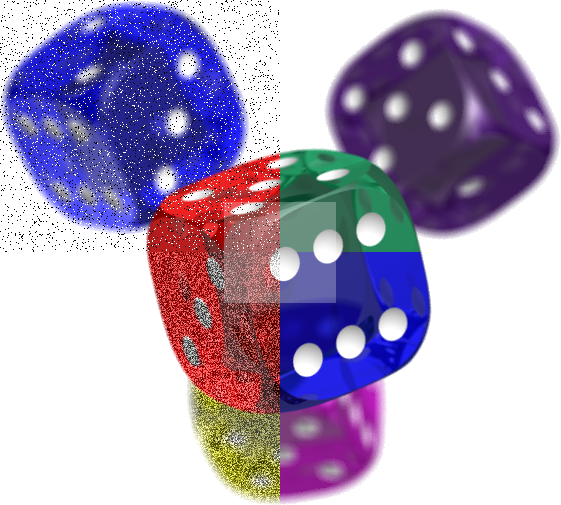
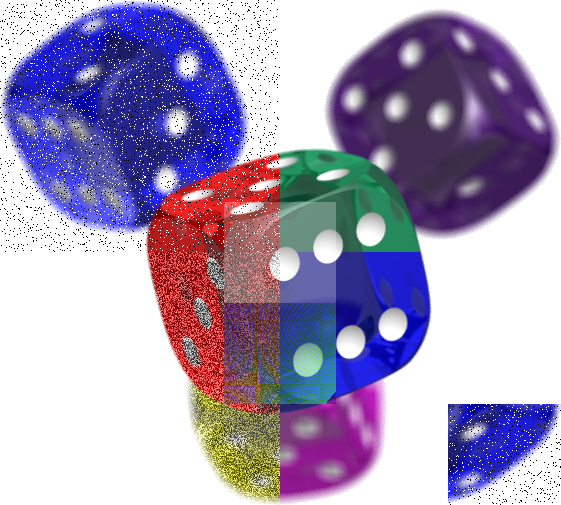
Added new method to PixelOps to apply custom function and added ability to change alphablending (not forced to false), modified pixelops_demo, added new filters_demo, minor phpdoc changes

diff --git a/HC/Helper/PixelOps.php b/HC/Helper/PixelOps.php
@@ -4,6 +4,7 @@ namespace HC\Helper;
 
 use HC\Canvas;
 use HC\Color;
+
 use InvalidArgumentException;
 
 /**
@@ -35,7 +36,7 @@ class PixelOps {
     
     /**
      * Apply predefined Canvas::pixelOperation (one time)
-     * Note: Sets imagealphablending to false
+     * Note: by default sets imagealphablending to false
      * 
      * @param Canvas $canvas
      * @param int  $beginX
@@ -44,41 +45,54 @@ class PixelOps {
      * @param int  $endY   canvas full height if null
      * @param int  $stepX
      * @param int  $stepY
-     * @param bool $cache
+     * @param bool $cache speed up color calculations but use more memory
+     * @param bool $alphaBlending
      * @return PixelOps
      */
     public static function on(Canvas $canvas, 
             $beginX = 0, $beginY = 0, $endX = null, $endY = null, $stepX = 1, $stepY = 1, 
-            $cache = false) {
+            $cache = false, $alphaBlending = false) {
         $forOpts = compact('beginX', 'beginY', 'endX', 'endY', 'stepX', 'stepY');
-        $canvas->alphaBlending(false);
+        $canvas->alphaBlending($alphaBlending);
         return new self($canvas, $forOpts, $cache);
     }
-
-    public function __call($name, $arguments) {
+    
+    /**
+     * Apply custom callback with set range and step parameters
+     * 
+     * @param callback $operation  Color|int function([Color|int $rgb[, int $x[, int $y[, $handle]]]])
+     * @param int      $returnMode declare what callback will return 0-int, 1-Color, 2-Color|int, 3-int|Color
+     * @param int      $mode       declare what callback want for argument as 0-Color, 1-index, 2-0, 
+     *                             by default automatic (typehint Color->1, $rgb = $unused -> 2)
+     * @throws InvalidArgumentException
+     * @return Canvas
+     */
+    public function apply($callback, $returnMode = 3, $mode = 0) {
         $canvas       = $this->canvas;
         $forOpts      = $this->forOpts;
         $cache        = $this->cache;
-        $this->canvas = null;//allow chaining?
+        $this->canvas = null;//allow reuse?
 
         if ($forOpts['endX'] === null)
             $forOpts['endX'] = $canvas->sX();
         if ($forOpts['endY'] === null)
             $forOpts['endY'] = $canvas->sY();
-
-        $closure = call_user_func_array(__CLASS__ . '::pixel' . ucfirst($name), $arguments);
-        switch ($name) {
-            case 'transparency':  $mode = 1; break;
-            case 'saltAndPepper': $mode = 0; break;
-            case 'noise':         $mode = 1; break;
-            case 'swapColor':     $mode = 0; break;
-            case 'filterHue':     $mode = 1; break;
-            default:              $mode = 3;
-        }
-        $ret = $canvas->pixelOperation($closure, $forOpts, $mode, 0, $cache);
-        return $ret;
+        return $canvas->pixelOperation($callback, $forOpts, $returnMode, $mode, $cache);
     }
 
+     public function __call($name, $arguments) {
+        $closure = call_user_func_array(__CLASS__ . '::pixel' . ucfirst($name), $arguments);
+        switch ($name) {
+            case 'transparency':  $returnMode = 1; break;
+            case 'saltAndPepper': $returnMode = 0; break;
+            case 'noise':         $returnMode = 1; break;
+            case 'swapColor':     $returnMode = 0; break;
+            case 'filterHue':     $returnMode = 1; break;
+            default:              $returnMode = 3;
+        }
+        return $this->apply($closure, $returnMode);
+    }
+    
     /**
      * Add alpha to image, use with caching
      * 

diff --git a/examples/filters_demo2.php b/examples/filters_demo2.php
@@ -1,0 +1,74 @@
+<?php
+
+include dirname(__DIR__) . '/HCImage.class.php';
+
+use HC\Color;
+use HC\Image;
+
+try {
+    $img  = Image::load('img/PNG_transparency_demonstration_1.png');
+    $time = microtime(true);
+
+    $img2 = clone $img->trim();
+    $img2->crop(0, 0, $img->getWidth() * 3.5, $img->getHeight());
+
+    $tColor  = Color::index('blue');
+    $filter  = $img->scale(50)->getCanvas()->useFilter();
+    $xOffset = $img->getWidth();
+    $yOffset = $img->getHeight();
+
+    $filter->grayScale();
+    $img2->merge($img, $xOffset * 2)
+            ->getCanvas()
+            ->string(5, $xOffset * 2, $yOffset - 20, "(1) gray scale", $tColor);
+
+    $filter->negate();
+    $img2->merge($img, $xOffset * 3)
+            ->getCanvas()
+            ->string(5, $xOffset * 3, $yOffset - 20, "(2)+negate", $tColor);
+
+    $filter->colorize(2, 118, 219);
+    $img2->merge($img, $xOffset * 4)
+            ->getCanvas()
+            ->string(5, $xOffset * 4, $yOffset - 20, "(3)+colorize(2, 118, 219)", $tColor);
+
+    $filter->negate();
+    $img2->merge($img, $xOffset * 5)
+            ->getCanvas()
+            ->string(5, $xOffset * 5, $yOffset - 20, "(4)+negate", $tColor);
+
+    $filter->brightness(30);
+    $img2->merge($img, $xOffset * 6)
+            ->getCanvas()
+            ->string(5, $xOffset * 6, $yOffset - 20, "(5)+brightness(30)", $tColor);
+
+    $filter->contrast(-30);
+    $img2->merge($img, $xOffset * 2, $yOffset)
+            ->getCanvas()
+            ->string(5, $xOffset * 2, $yOffset * 2 - 20, "(6)+contrast(-30)", $tColor);
+
+    $filter->pixelate(4, true);
+    $img2->merge($img, $xOffset * 3, $yOffset)
+            ->getCanvas()
+            ->string(5, $xOffset * 3, $yOffset * 2 - 20, "(7)+pixelate(4)", $tColor);
+
+    $filter->edgeDetect();
+    $img2->merge($img, $xOffset * 4, $yOffset)
+            ->getCanvas()
+            ->string(5, $xOffset * 4, $yOffset * 2 - 20, "(8)+edge detect", $tColor);
+
+    $filter->smooth(4);
+    $img2->merge($img, $xOffset * 5, $yOffset)
+            ->getCanvas()
+            ->string(5, $xOffset * 5, $yOffset * 2 - 20, "(9)+smooth(5)", $tColor);
+
+    $filter->emboss();
+    $img2->merge($img, $xOffset * 6, $yOffset)
+            ->getCanvas()
+            ->string(5, $xOffset * 6, $yOffset * 2 - 20, "(10)+emboss", $tColor);
+
+    echo microtime(true) - $time, "s\n";
+    $img2->save('out/filtered2', 'png', 9);
+} catch (Exception $exc) {
+    echo $exc->getMessage(), PHP_EOL;
+}

diff --git a/HC/Helper/Filter.php b/HC/Helper/Filter.php
@@ -98,7 +98,7 @@ class Filter {
      * [1.0   1.0   1.0]
      * The result is normalized by dividing by $weight + 8.0
      * 
-     * @see imagefilter,imageconvolution,PixelOps::getConvMatrix
+     * @see imagefilter,imageconvolution
      * @param float $weight smothness level
      * @return Filter
      * @throws RuntimeException
@@ -146,7 +146,7 @@ class Filter {
     }
 
     /**
-     * @see imagefilter,imageconvolution,PixelOps::getConvMatrix
+     * @see imagefilter,imageconvolution
      * @return Filter
      * @throws RuntimeException
      */
@@ -157,7 +157,7 @@ class Filter {
     }
 
     /**
-     * @see imagefilter,imageconvolution,PixelOps::getConvMatrix
+     * @see imagefilter,imageconvolution
      * @return Filter
      * @throws RuntimeException
      */
@@ -168,7 +168,7 @@ class Filter {
     }
 
     /**
-     * @see imagefilter,imageconvolution,PixelOps::getConvMatrix
+     * @see imagefilter,imageconvolution
      * @return Filter
      * @throws RuntimeException
      */
@@ -179,7 +179,7 @@ class Filter {
     }
 
     /**
-     * @see imagefilter,imageconvolution,PixelOps::getConvMatrix
+     * @see imagefilter,imageconvolution
      * @return Filter
      * @throws RuntimeException
      */
@@ -190,7 +190,7 @@ class Filter {
     }
 
     /**
-     * @see imagefilter,imageconvolution,PixelOps::getConvMatrix
+     * @see imagefilter,imageconvolution
      * @return Filter
      * @throws RuntimeException
      */

diff --git a/HC/Canvas.php b/HC/Canvas.php
@@ -373,7 +373,7 @@ class Canvas implements ArrayAccess, SeekableIterator, Countable {// \SplObserve
     
     /**
      * Apply predefined Canvas::pixelOperation (one time)
-     * Note: Sets imagealphablending to false
+     * Note: by default sets imagealphablending to false
      * 
      * @see Canvas::pixelOperation
      * @param int  $beginX
@@ -382,13 +382,14 @@ class Canvas implements ArrayAccess, SeekableIterator, Countable {// \SplObserve
      * @param int  $endY   canvas full height if null
      * @param int  $stepX
      * @param int  $stepY
-     * @param bool $cache
+     * @param bool $cache speed up color calculations but use more memory
+     * @param bool $alphaBlending
      * @return PixelOps
      */
     public function usePixelOps(
             $beginX = 0, $beginY = 0, $endX = null, $endY = null, $stepX = 1, $stepY = 1, 
-            $cache = false) {
-        return PixelOps::on($this, $beginX, $beginY, $endX, $endY, $stepX, $stepY, $cache);
+            $cache = false, $alphaBlending = false) {
+        return PixelOps::on($this, $beginX, $beginY, $endX, $endY, $stepX, $stepY, $cache, $alphaBlending);
     }
 
     /**

diff --git a/examples/pixelops_demo.php b/examples/pixelops_demo.php
@@ -16,7 +16,13 @@ try {
             ->usePixelOps(0,      $h / 2, $w / 2,   null, 1, 1, false)->noise()
             ->usePixelOps($w / 2,      0,   null, $h / 2, 1, 1, true )->filterHue(Color::get(20,240,140))
             ->usePixelOps($w / 2, $h / 2,   null,   null, 1, 1, true )->swapColor('gbr')
-            ->usePixelOps($w * 2 / 5, $h * 2 / 5, $w * 3 / 5, $h * 3 / 5,1,1,true)->transparency(30);
+            ->usePixelOps($w*2/5, $h*2/5, $w*3/5, $h*3/5, 1, 1, true )->transparency(30)
+            ->usePixelOps($w*2/5, $h*3/5, $w*3/5, $h*4/5, 1, 1, false, true)->apply(function($unused, $x, $y) {
+                return $x * $y + 0x40400000;
+            }, 0)
+            ->usePixelOps($w*4/5, $h*4/5)->apply(function($unused, $x, $y, $handle) use ($h, $w) {
+                return imagecolorat($handle, $w-$x, $h-$y);
+            }, 0);
 
     echo microtime(true) - $time, "s\n";
     $img->save('out/pixels', 'png', 9);

diff --git a/examples/filters_demo.php b/examples/filters_demo.php
@@ -7,8 +7,8 @@ use HC\Image;
 try {
     $img  = Image::load('img/PNG_transparency_demonstration_1.png');
     $time = microtime(true);
-    $img->trim();
-    $img2 = clone $img;
+    
+    $img2 = clone $img->trim();
     $img->getCanvas()
             ->useFilter()
             ->grayScale()
